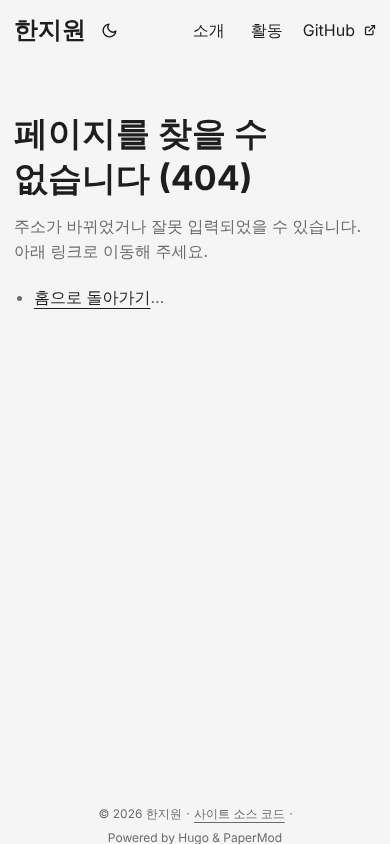
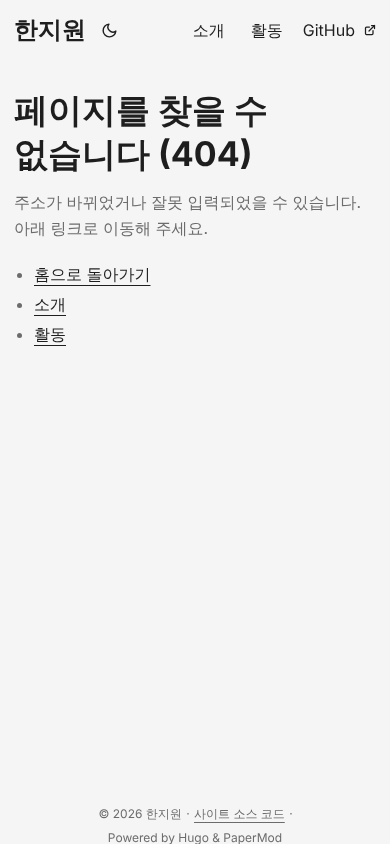
검증: 404 수정·점검 항목 추가 후 최종 자동 점검 결과로 docs/evidence/auto 갱신(6개 페이지·링크 38개·잘림 0·결함 0), README에 커밋 메시지 정정 기록
Claude-Session: https://claude.ai/code/session_01VJkEkmwDDXS8CYsjr9oT2h

Changed region(s): [[0.0308, 0.0924, 0.6769, 0.4313], [0.7077, 0.2156, 0.9231, 0.2773], [0.0308, 0.3389, 0.0615, 0.3697]]

diff --git a/docs/evidence/README.md b/docs/evidence/README.md
@@ -2,23 +2,23 @@
 
 | 파일 | 내용 | URL | 캡처 시각 (KST) | 화면 폭 | 캡처 |
 | --- | --- | --- | --- | --- | --- |
-| `fig01_live_home_first_deploy.png` | 1차 배포 직후 공개 홈 화면 (어두운 테마). 첫 문단 끝 "것입니/다"처럼 한국어 단어가 중간에서 줄바꿈되는 문제 확인 | https://won-ji1.github.io/portfolio/ | 2026-10-31 02:25 | 브라우저 창 약 1896px | 본인 (Chrome) |
+| `fig01_live_home_first_deploy.png` | 1차 배포 직후 공개 홈 화면 (어두운 테마). 첫 문단 끝 "것입니/다"처럼 한국어 단어가 중간에서 줄바꿈되는 문제 확인. 오른쪽 위 Chrome 프로필 표시는 개인정보 보호를 위해 '프로필 가림'으로 덮음(그 밖의 부분은 원본 그대로) | https://won-ji1.github.io/portfolio/ | 2026-10-31 02:25 | 브라우저 창 약 1896px | 본인 (Chrome) |
 | `fig02_live_1440.png` | 2차 배포(커밋 70320f1, [Actions 실행](https://github.com/won-ji1/portfolio/actions/runs/41099966347)) 후 공개 홈 화면. 어절 단위 줄바꿈, 하단 "사이트 소스 코드" 링크 반영 확인 | https://won-ji1.github.io/portfolio/ | 2026-10-31 03:10 | 1440px (Chrome 기기 모드, 2배율 저장 2880px) | 본인 (Chrome) |
 | `fig03_live_390.png` | 같은 화면 모바일 폭. 단어 중간 줄바꿈 없음("있습니다.", "것입니다."), 메뉴 3개 표시, 가로 넘침 없음 | https://won-ji1.github.io/portfolio/ | 2026-10-31 03:11 | 390px (Chrome 기기 모드, 2배율 저장 780px) | 본인 (Chrome) |
 
 ## 자동 점검 결과 (`docs/evidence/auto/`)
 
-`docs/tools/check_site.py`로 커밋 `82b6979`(사이트 최종본)의 배포용 빌드(`python .github/pages_build.py --build`)를 점검한 결과입니다.
+`docs/tools/check_site.py`로 커밋 `6b0a2c1`(사이트 최종본)의 배포용 빌드(`python .github/pages_build.py --build`)를 점검한 결과입니다.
 공개 주소 `https://won-ji1.github.io/portfolio/` 요청을 같은 커밋의 `public/` 파일로 응답하게 해 배포 경로(/portfolio/)를 그대로 재현했습니다.
-환경: Chromium 153.0.8010.12 (Playwright, Linux) · 점검 시각 2026-10-31 04:14 KST (처음 점검 02:37 커밋 c38640f, 재점검 03:49 a6447c6·04:02 62a10d4 → 최종 사이트 변경 후 다시 점검)
+환경: Chromium 153.0.8010.12 (Playwright, Linux) · 점검 시각 2026-10-31 04:42 KST (처음 02:37 c38640f → 재점검 03:49 a6447c6 · 04:02 62a10d4 · 04:14 82b6979 → 404 수정과 점검 항목 추가 후 최종 점검)
 
 | 파일 | 내용 | 화면 폭 |
 | --- | --- | --- |
-| `report.json` | 5개 페이지 × 4개 폭 점검 결과, 내부 링크·앵커 36개, Tab 순서, '맨 위로' 버튼 겹침 스캔(toplink_overlaps: 0건), 테마 버튼 Enter 전환, 앵커 새로고침, 결함 목록(issues: 0건) | 1440·768·390·360px (겹침 스캔은 1440·900·768·390·360px × 창 높이 900·420px) |
+| `report.json` | 6개 페이지(404 포함) × 4개 폭 점검 결과, 내부 링크·앵커 38개, 잘린 내용 0건, localhost·file·http 참조 0건, 파비콘 5개 응답 200, Tab 순서, '맨 위로' 버튼 겹침 스캔(toplink_overlaps: 0건), 테마 버튼 Enter 전환, 앵커 새로고침, 결함 목록(issues: 0건) | 1440·768·390·360px (겹침 스캔은 1440·900·768·390·360px × 창 높이 900·420px) |
 | `skip_link_390.png` | 대표 활동 페이지에서 첫 Tab 시 "본문 바로가기"와 3px 초점 테두리 표시 | 390px |
 | `keyboard_focus.png` | 소개 페이지에서 Tab 14회 후 초점 위치 표시 | 1440px |
-| `404_390.png` | 없는 주소(/portfolio/no-such-page/deep/) 접속 시 한국어 404 안내와 홈·소개·활동 링크 | 390px |
-| `zoom200_home.png` | 200% 확대와 같은 조건(1440px 창 = CSS 720px)에서 홈 화면, 가로 넘침 없음 | 720px |
+| `404_390.png` | 없는 주소(/portfolio/no-such-page/deep/) 접속 시 한국어 404 안내와 홈·소개·활동 링크 3개가 잘리지 않고 표시(26e71c6 수정 후) | 390px |
+| `zoom200_home.png` | 200% 확대와 같은 조건(1440px 창 = CSS 720px)에서 홈 화면, 가로 넘침 없음(넘침 측정은 6개 페이지 모두) | 720px |
 
 ## 개선 전 자동 점검 결과 (`docs/evidence/auto_before/`)
 
@@ -29,4 +29,4 @@
 | `390_home_before.png` | 개선 전 홈 화면. 제목 "한지원입니/다", 소개 "있습니/다"처럼 단어 중간 줄바꿈, 활동 요약이 "1차 결과 대…"로 잘림 | 390px |
 | `report_before.json` | 개선 전 점검 기록. 결함 0건이지만 Tab 초점이 `outline auto 1px`(브라우저 기본값), 메뉴 링크 폭 32px로 측정됨 → 2차 개선의 근거 | 1440·768·390px |
 
-참고: `docs/evidence/auto/`의 결과는 사이트의 마지막 변경 커밋 `82b6979` 빌드로 점검한 것입니다. 그 뒤 커밋은 `docs/` 폴더만 바꿉니다.
+참고: `docs/evidence/auto/`의 결과는 사이트의 마지막 변경 커밋 `6b0a2c1` 빌드로 점검한 것입니다. 그 뒤 커밋은 `docs/`·`README.md`만 바꿉니다. 이 점검은 작업 환경에서 공개 서버에 직접 접속할 수 없어 공개 주소 요청을 같은 빌드 파일로 응답하게 한 재현 점검이며, 없는 주소에 404.html을 돌려주는 것은 GitHub Pages의 동작이라 이 점검으로는 404.html의 내용만 확인합니다.

diff --git a/README.md b/README.md
@@ -129,3 +129,5 @@ python docs/tools/check_site.py https://won-ji1.github.io/portfolio/ check-outpu
 | 사이트 설정·화면 수정 | `site/hugo.toml`, `site/layouts/`, `site/assets/css/extended/` | AI 도움 + 본인 확인 | AI(Claude)가 작성하고 본인이 사이트에서 동작을 확인 |
 
 AI 도움을 받은 커밋에는 커밋 메시지 끝에 `Co-Authored-By: Claude` 표시를 남겼습니다.
+
+커밋 메시지 정정: `e7f0783`(흐름도)·`56ac93d`(파비콘)의 "직접 제작한"은 위 표대로 **AI 생성**(본인이 제공한 내용 기반)이 맞습니다. `2e732cc`에서 제거한 임시 title 값은 "portfolio"가 아니라 "hugo-papermod"입니다.
